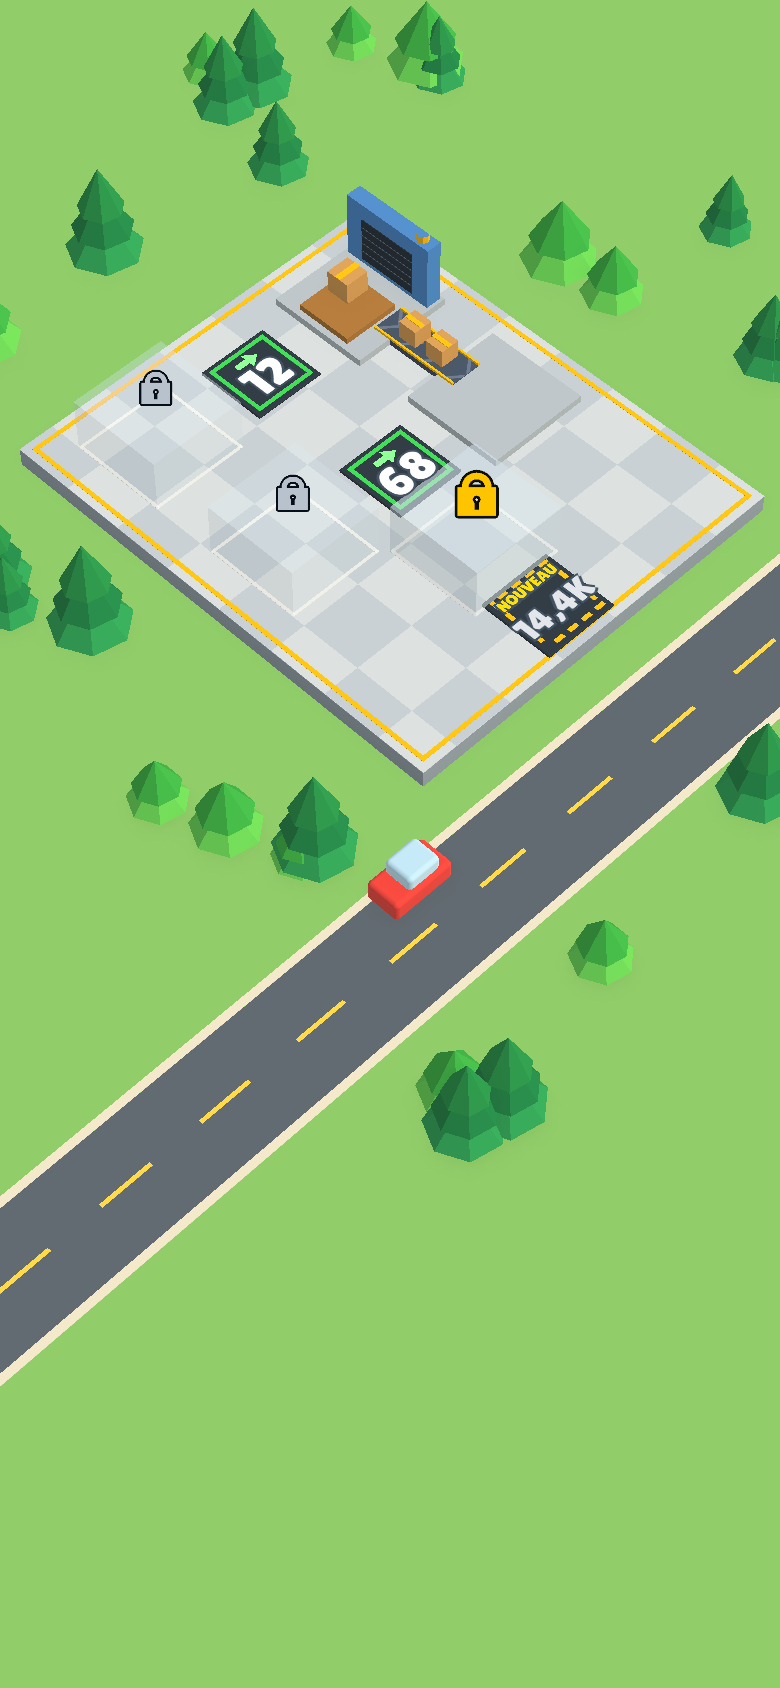
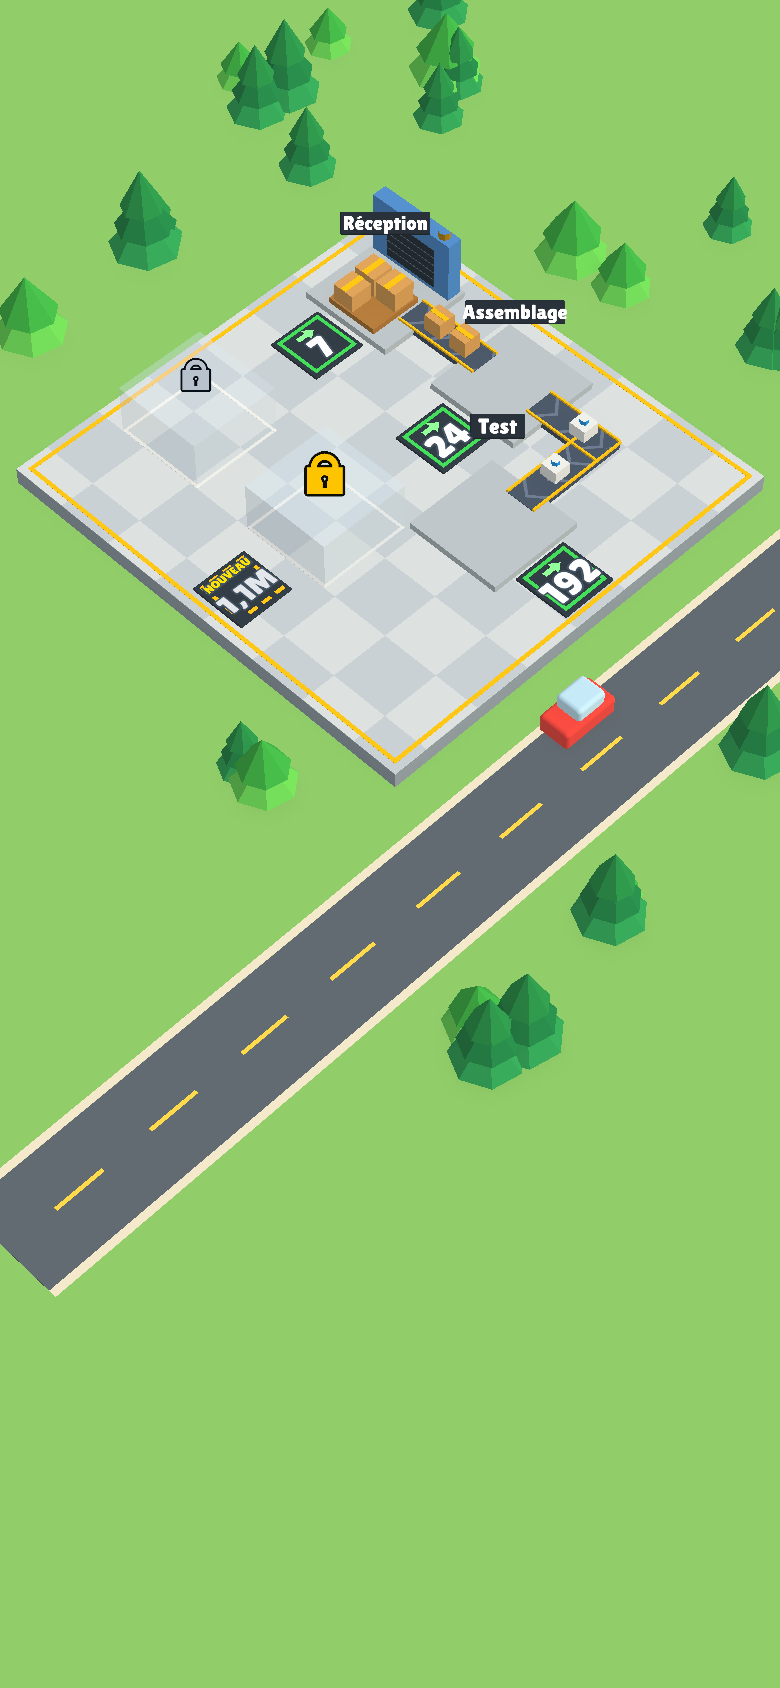
U2b corrections (plaques devant les postes, dalle 7,6, plaques 1x1, prix qui tient) + etiquettes de poste

diff --git a/unity/Assets/Editor/IdleSceneBuilder.cs b/unity/Assets/Editor/IdleSceneBuilder.cs
@@ -335,7 +335,7 @@ public static class IdleSceneBuilder
 
     // ------------------------------------------------------------------ plaques d'achat au sol (U2b)
 
-    const float PlateSize = 1.25f;
+    const float PlateSize = 1.0f;
 
     static void BuildPlates(Transform parent)
     {
@@ -360,7 +360,7 @@ public static class IdleSceneBuilder
             visual.SetParent(plate, false);
             RoundedBox.Make(visual, "Base", new Vector3(0f, 0.025f, 0f), new Vector3(PlateSize, 0.05f, PlateSize), 0.1f, baseMat);
 
-            float half = PlateSize * 0.5f - 0.08f, lw = 0.07f, top = 0.052f;
+            float half = PlateSize * 0.5f - 0.07f, lw = 0.06f, top = 0.052f;
             var solid = new MeshKit();
             solid.Box(new Vector3(-half, top, -half), new Vector3(half * 2, 0.006f, lw));
             solid.Box(new Vector3(-half, top, half - lw), new Vector3(half * 2, 0.006f, lw));
@@ -379,19 +379,19 @@ public static class IdleSceneBuilder
             GameObject yellow = dashed.ToObject("BorderYellow", visual, yellowMat);
 
             var arrowKit = new MeshKit();
-            arrowKit.FlatArrow(textUp * 0.3f + new Vector3(0f, top + 0.012f, 0f), along, 0.42f, 0.3f);   // flèche vers le haut à droite
+            arrowKit.FlatArrow(textUp * 0.24f + new Vector3(0f, top + 0.012f, 0f), along, 0.34f, 0.24f);   // flèche vers le haut à droite
             GameObject arrow = arrowKit.ToObject("Arrow", visual, arrowOff);
 
             var tag = new GameObject("NewTag").transform;
             tag.SetParent(visual, false);
-            tag.localPosition = textUp * 0.38f + new Vector3(0f, top + 0.012f, 0f);
-            MakeFlatText(tag, "NOUVEAU", font, 70, 0.034f, flat, new Color32(0xFF, 0xC4, 0x00, 0xFF), out _);
+            tag.localPosition = textUp * 0.31f + new Vector3(0f, top + 0.012f, 0f);
+            MakeFlatText(tag, "NOUVEAU", font, 70, 0.027f, flat, new Color32(0xFF, 0xC4, 0x00, 0xFF), out _);
 
             var priceRoot = new GameObject("Price").transform;
             priceRoot.SetParent(visual, false);
-            priceRoot.localPosition = -textUp * 0.12f + new Vector3(0f, top + 0.015f, 0f);
+            priceRoot.localPosition = -textUp * 0.1f + new Vector3(0f, top + 0.015f, 0f);
             TextMesh main;
-            Transform label = MakeFlatText(priceRoot, "0", font, 90, 0.085f, flat, Color.white, out main);
+            Transform label = MakeFlatText(priceRoot, "0", font, 90, 0.068f, flat, Color.white, out main);
             var texts = new List<TextMesh> { main };
             foreach (TextMesh outline in label.GetComponentsInChildren<TextMesh>()) if (outline != main) texts.Add(outline);
 
@@ -423,7 +423,7 @@ public static class IdleSceneBuilder
         var holder = new GameObject("Text").transform;
         holder.SetParent(parent, false);
         holder.localRotation = rotation;
-        float o = 0.03f;
+        float o = 0.024f;
         Vector2[] offsets = { new Vector2(o, o), new Vector2(-o, o), new Vector2(o, -o), new Vector2(-o, -o) };
         foreach (Vector2 off in offsets) MakeTextMesh(holder, "Outline", text, font, fontSize, characterSize, new Vector3(off.x, off.y, 0.002f), UiTheme.Ink);
         main = MakeTextMesh(holder, "Main", text, font, fontSize, characterSize, Vector3.zero, color);
@@ -431,7 +431,7 @@ public static class IdleSceneBuilder
     }
 
     // Deux matériaux de police : le contour est dessiné avant le texte (file de rendu plus basse), pour ne jamais le recouvrir.
-    static Material FontMaterial(Font font, bool main)
+    internal static Material FontMaterial(Font font, bool main)
     {
         string path = "Assets/Prototype/Materials/Idle_Font" + (main ? "Main" : "Outline") + ".mat";
         Material m = AssetDatabase.LoadAssetAtPath<Material>(path);
@@ -442,7 +442,7 @@ public static class IdleSceneBuilder
         return m;
     }
 
-    static TextMesh MakeTextMesh(Transform parent, string name, string text, Font font, int fontSize, float characterSize, Vector3 localPos, Color color)
+    internal static TextMesh MakeTextMesh(Transform parent, string name, string text, Font font, int fontSize, float characterSize, Vector3 localPos, Color color)
     {
         var go = new GameObject(name, typeof(TextMesh));
         go.transform.SetParent(parent, false);

diff --git a/unity/Assets/Editor/IdleMachineBuilder.cs b/unity/Assets/Editor/IdleMachineBuilder.cs
@@ -36,11 +36,26 @@ public static class IdleMachineBuilder
         root.SetParent(parent, false);
         root.localPosition = new Vector3(-IdleLayout.StationSize * 0.5f, 0f, -IdleLayout.StationSize * 0.5f);   // coin arrière du poste
         Platform(root);
+        Label(root, i);
         switch (i)
         {
             case 0: Reception(root); break;
         }
         return root;
+    }
+
+    // Étiquette du poste : pastille sombre arrondie avec le nom en blanc, toujours face à la caméra, au-dessus de la machine.
+    static readonly float[] LabelHeight = { 1.55f, 1.6f, 2.15f, 2.1f, 1.5f };
+
+    static void Label(Transform root, int i)
+    {
+        string name = Loc.T(AssetDatabase.LoadAssetAtPath<IdleEconomyConfig>("Assets/Prototype/IdleEconomyConfig.asset").stations[i].nameKey);
+        var holder = new GameObject("Label", typeof(FaceCamera)).transform;
+        holder.SetParent(root, false);
+        holder.localPosition = new Vector3(IdleLayout.StationSize * 0.5f, LabelHeight[i], IdleLayout.StationSize * 0.5f);
+        float width = 0.3f + 0.115f * name.Length;
+        RoundedBox.Make(holder, "Pill", new Vector3(0f, 0f, 0.03f), new Vector3(width, 0.34f, 0.05f), 0.16f, IdleMaterials.Get("LabelPill", "#1E2A38"));
+        IdleSceneBuilder.MakeTextMesh(holder, "Main", name, UiTheme.Font, 80, 0.037f, Vector3.zero, Color.white);
     }
 
     // ------------------------------------------------------------------ 1. Réception : quai, porte à lamelles, gyrophare, palette de caisses

diff --git a/unity/Assets/Scripts/IdleLayout.cs b/unity/Assets/Scripts/IdleLayout.cs
@@ -5,7 +5,7 @@ using UnityEngine;
 public static class IdleLayout
 {
     public const float FloorWidth = 7.8f;     // web x -> Z
-    public const float FloorDepth = 6.6f;     // web y -> X
+    public const float FloorDepth = 7.6f;     // web y -> X (plus profonde que 6,6 pour loger les plaques du bas)
     public const float SlabThickness = 0.3f;
     public const float StationSize = 1.6f;
 
@@ -15,10 +15,10 @@ public static class IdleLayout
         new Vector2(0.55f, 0.55f), new Vector2(3.2f, 0.55f), new Vector2(4.9f, 2.7f), new Vector2(3.2f, 4.4f), new Vector2(0.55f, 4.4f),
     };
 
-    // Plaques d'achat au sol (x, y du web) : une par poste.
+    // Plaques d'achat au sol (centres, x, y du web) : une par poste, devant son poste, jamais sur un tapis ni hors de la dalle.
     public static readonly Vector2[] Plates =
     {
-        new Vector2(1.35f, 3.3f), new Vector2(4.0f, 3.2f), new Vector2(7.05f, 3.5f), new Vector2(5.95f, 5.7f), new Vector2(1.35f, 6.95f),
+        new Vector2(1.35f, 2.8f), new Vector2(4.0f, 2.8f), new Vector2(7.1f, 3.5f), new Vector2(4.0f, 6.85f), new Vector2(1.35f, 6.85f),
     };
 
     // 4 tapis (suites de points x, y du web) entre les postes.

diff --git a/unity/Assets/Scripts/IdlePlateView.cs b/unity/Assets/Scripts/IdlePlateView.cs
@@ -19,7 +19,7 @@ public class IdlePlateView : MonoBehaviour
     [SerializeField] Color waitingColor = new Color32(0xC3, 0xCC, 0xD7, 0xFF);
     [SerializeField, Min(0f)] float pulseAmount = 0.05f;
     [SerializeField, Min(0f)] float pulseSpeed = 6f;
-    [SerializeField] float halfHitSize = 1.05f;      // moitié du côté de la zone de toucher (mètres)
+    [SerializeField] float halfHitSize = 0.8f;       // moitié du côté de la zone de toucher : 1,6 m pour une plaque de 1 m (1,5 fois le visuel)
 
     long shownPrice = -1;
     int shownState = -1;
@@ -66,7 +66,8 @@ public class IdlePlateView : MonoBehaviour
         {
             shownPrice = price;
             string label = NumberFormat.Short(price);
-            foreach (TextMesh t in priceTexts) { t.text = label; t.fontSize = label.Length >= 5 ? 60 : 90; }
+            int size = Mathf.RoundToInt(90f * Mathf.Min(1f, 3.0f / Mathf.Max(1, label.Length)));   // un prix tient toujours dans la plaque
+            foreach (TextMesh t in priceTexts) { t.text = label; t.fontSize = size; }
         }
         if (affordable != shownAffordable || pulseStart == 0f)
         {

diff --git a/unity/Assets/Scripts/IdleCameraRig.cs b/unity/Assets/Scripts/IdleCameraRig.cs
@@ -6,7 +6,7 @@ using UnityEngine;
 public class IdleCameraRig : MonoBehaviour
 {
     [SerializeField] Vector3 slabMin = new Vector3(0f, -0.3f, 0f);      // le dessus de la dalle est à y = 0
-    [SerializeField] Vector3 slabSize = new Vector3(6.6f, 0.3f, 7.8f);   // X = web y (6,6), Y = épaisseur, Z = web x (7,8)
+    [SerializeField] Vector3 slabSize = new Vector3(7.6f, 0.3f, 7.8f);   // X = web y (7,6), Y = épaisseur, Z = web x (7,8)
     [SerializeField, Range(10f, 60f)] float fieldOfView = 30f;
     [SerializeField, Range(30f, 80f)] float pitch = 55f;
     [SerializeField] float yaw = 225f;                                   // regarde vers -X, -Z : le coin (0,0) est au fond

diff --git a/unity/Assets/Scripts/Loc.cs b/unity/Assets/Scripts/Loc.cs
@@ -56,6 +56,7 @@ public static class Loc
         { "diag.session", "Session : {0} s" },
         { "diag.events", "Événements :" },
         { "diag.none", "aucun" },
+        { "station.recep", "Réception" }, { "station.assem", "Assemblage" }, { "station.test", "Test" }, { "station.pack", "Emballage" }, { "station.ship", "Expédition" },
         { "guide.step.0", "Ramasse des caisses sur la palette" },
         { "guide.step.1", "Dépose-les au poste bleu" },
         { "guide.step.2", "Prends le produit sur le plateau" },

diff --git a/unity/TACHES.md b/unity/TACHES.md
@@ -116,6 +116,14 @@ Le dépôt privé `GymRank-cre/idle-securite-unity` doit être créé par Sébas
 5. Noter dans Résultats l'URL du dépôt et les réglages faits.
 
 ## Résultats (à remplir par Claude Code local)
+**Corrections de la relecture cloud de U2b (5 points) + étiquettes de poste : FAITES (sans build). Compilation 0/0, tests 134/134. Capture refaite : `captures/U2c-reception-390x844.png` (3 postes ouverts, plaques, étiquettes).**
+1. **Positions des plaques** : `IdleLayout.Plates` = (1,35 ; 2,8), (4,0 ; 2,8), (7,1 ; 3,5), (4,0 ; 6,85), (1,35 ; 6,85) comme le web corrigé : **chaque plaque est devant son poste, aucune sur un tapis, aucune hors de la dalle** (vu sur la capture : 7, 24, 192 et « NOUVEAU 1,1M » bien dans la dalle).
+2. **Dalle plus profonde** : `FloorDepth` 6,6 -> **7,6** ; `slabSize` de `IdleCameraRig` mis à jour (le cadrage suit : la dalle remplit toujours la largeur, les 3 formats d'écran du test passent) ; arbres et route recalculés.
+3. **Plaques de 1,0 x 1,0** (et non 1,25), **zone tactile de 1,6 m de côté (demi-côté 0,8, soit 1,5 fois le visuel)** ; **si deux zones se recouvrent, la plaque la plus proche du doigt gagne** (c'était déjà le cas dans `IdlePlateInput`).
+4. **Plaques jamais cachées par une machine** : avec les nouvelles positions chaque plaque est devant son poste (côté caméra), donc une machine ne peut pas la masquer ; **je n'ai pas forcé `ZTest Always`** (le matériau URP Lit ne l'expose pas ; il faudrait un shader sur mesure) : à revoir si une machine haute masque un jour une plaque.
+5. **Prix qui déborde** : la taille du texte dépend maintenant de la longueur (`90 x min(1, 3/longueur)` : 3 caractères pleine taille, 5 caractères ~54), taille de base réduite avec la plaque ; « 14,4K » et « 1,1M » tiennent dans le cadre.
+- **Étiquettes de poste** (demande de fin de relecture) : pastille sombre arrondie `#1E2A38` avec le **nom en blanc** (clés `Loc` `station.*` : Réception, Assemblage, Test, Emballage, Expédition) **au-dessus de chaque machine ouverte**, toujours face à la caméra (visibles sur la capture).
+- Les machines d'U2c restent à faire une par poussée : **prochaine : Assemblage**.
 **U2c, machine 1 sur 5 — Réception : FAITE (sans build). Compilation 0/0, tests 134/134 (4 nouveaux), test de fumée OK. Capture : `captures/U2c-reception-390x844.png`.**
 - **Machine Réception** (`ReceptionMachine`, `IdleMachineBuilder`) : embase gris clair, **mur bleu `#4F8FD6`** avec **porte sombre à 4 lamelles**, **gyrophare** jaune qui clignote (3 fois par seconde, deux matériaux), **palette** brune sur laquelle **1 à 4 caisses `#D9A25B` à ruban jaune s'empilent selon la phase du cycle**, la dernière **pousse en grandissant** (mêmes formules que `stationDraw` du web, coordonnées du web converties : (x, y, z) -> (Z, X, Y)).
 - **Cadre commun** (`IdleStationView`, un par poste) : verrouillé -> fantôme (**cube translucide plus visible et cadenas jaune plus gros pour le PROCHAIN poste**, gris et plus petit pour les suivants, comme la cible) ; ouvert -> la machine apparaît et le poste **pousse avec un petit rebond** (`EaseOutBack`) ; la phase avance de `IdleGame.VisualFrequency` = **1 / durée du cycle (vitesse et Réputation comprises), plafonnée à 1,6 / 1,2 / 1,2 / 1,0 / 0,45 cycles par seconde** (anti-clignotement ; 4 tests). Les postes ouverts dont la machine n'est pas encore faite n'affichent que leur embase (visible sur la capture : l'Assemblage).

diff --git a/unity/STATUT_LOCAL.md b/unity/STATUT_LOCAL.md
@@ -1,6 +1,6 @@
 # Statut local (Claude Code, PC de Sébastien)
-- Date et heure : 30/10/2026 10:18
-- Étape en cours : U2c machine 1/5 (Réception) faite et poussée ; prochaine : Assemblage
+- Date et heure : 30/10/2026 10:29
+- Étape en cours : corrections U2b (plaques, dalle 7,6) + étiquettes poussées ; U2c : Réception faite, prochaine : Assemblage
 - État : en cours (chantiers U1 à U4 décidés par Sébastien ; un seul build, à la fin)
 - Compilation 0/0, tests 134/134, test de fumée (300 s simulées, rewardFactor 1,5 : 3 postes) OK ; l'ancien jeu est au commit 25ac2e4
 - Dernier build WebGL publié : P1 à P6 de l'ancien jeu (commit 26d129e) ; aucun nouveau build avant U4
